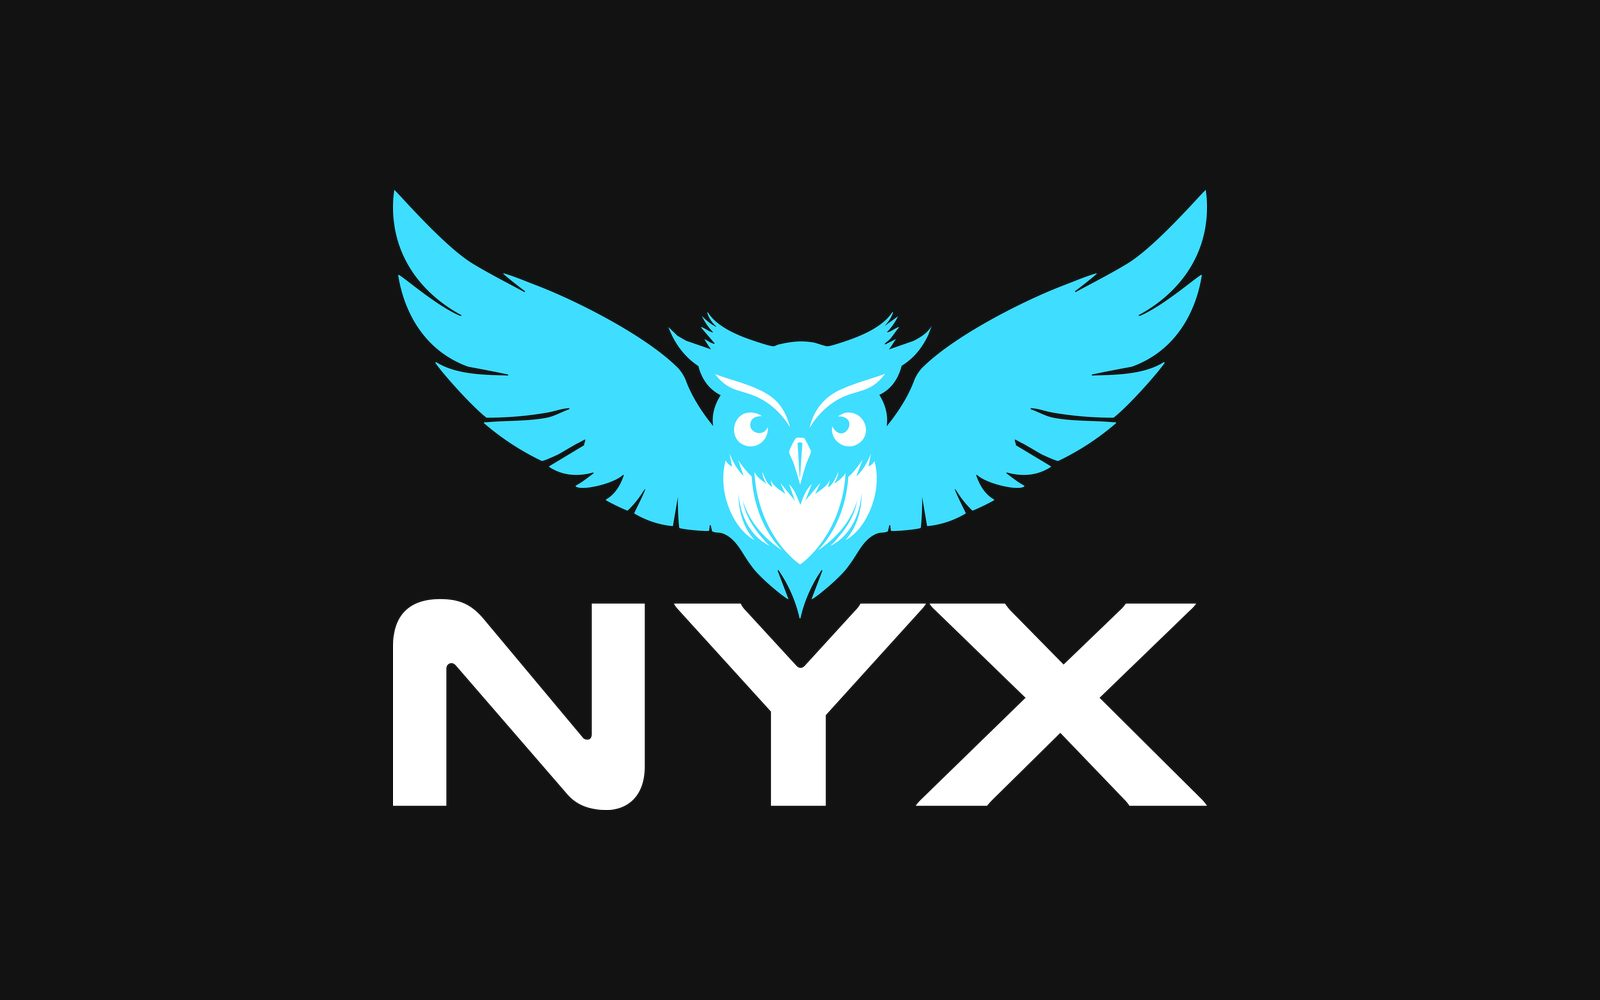
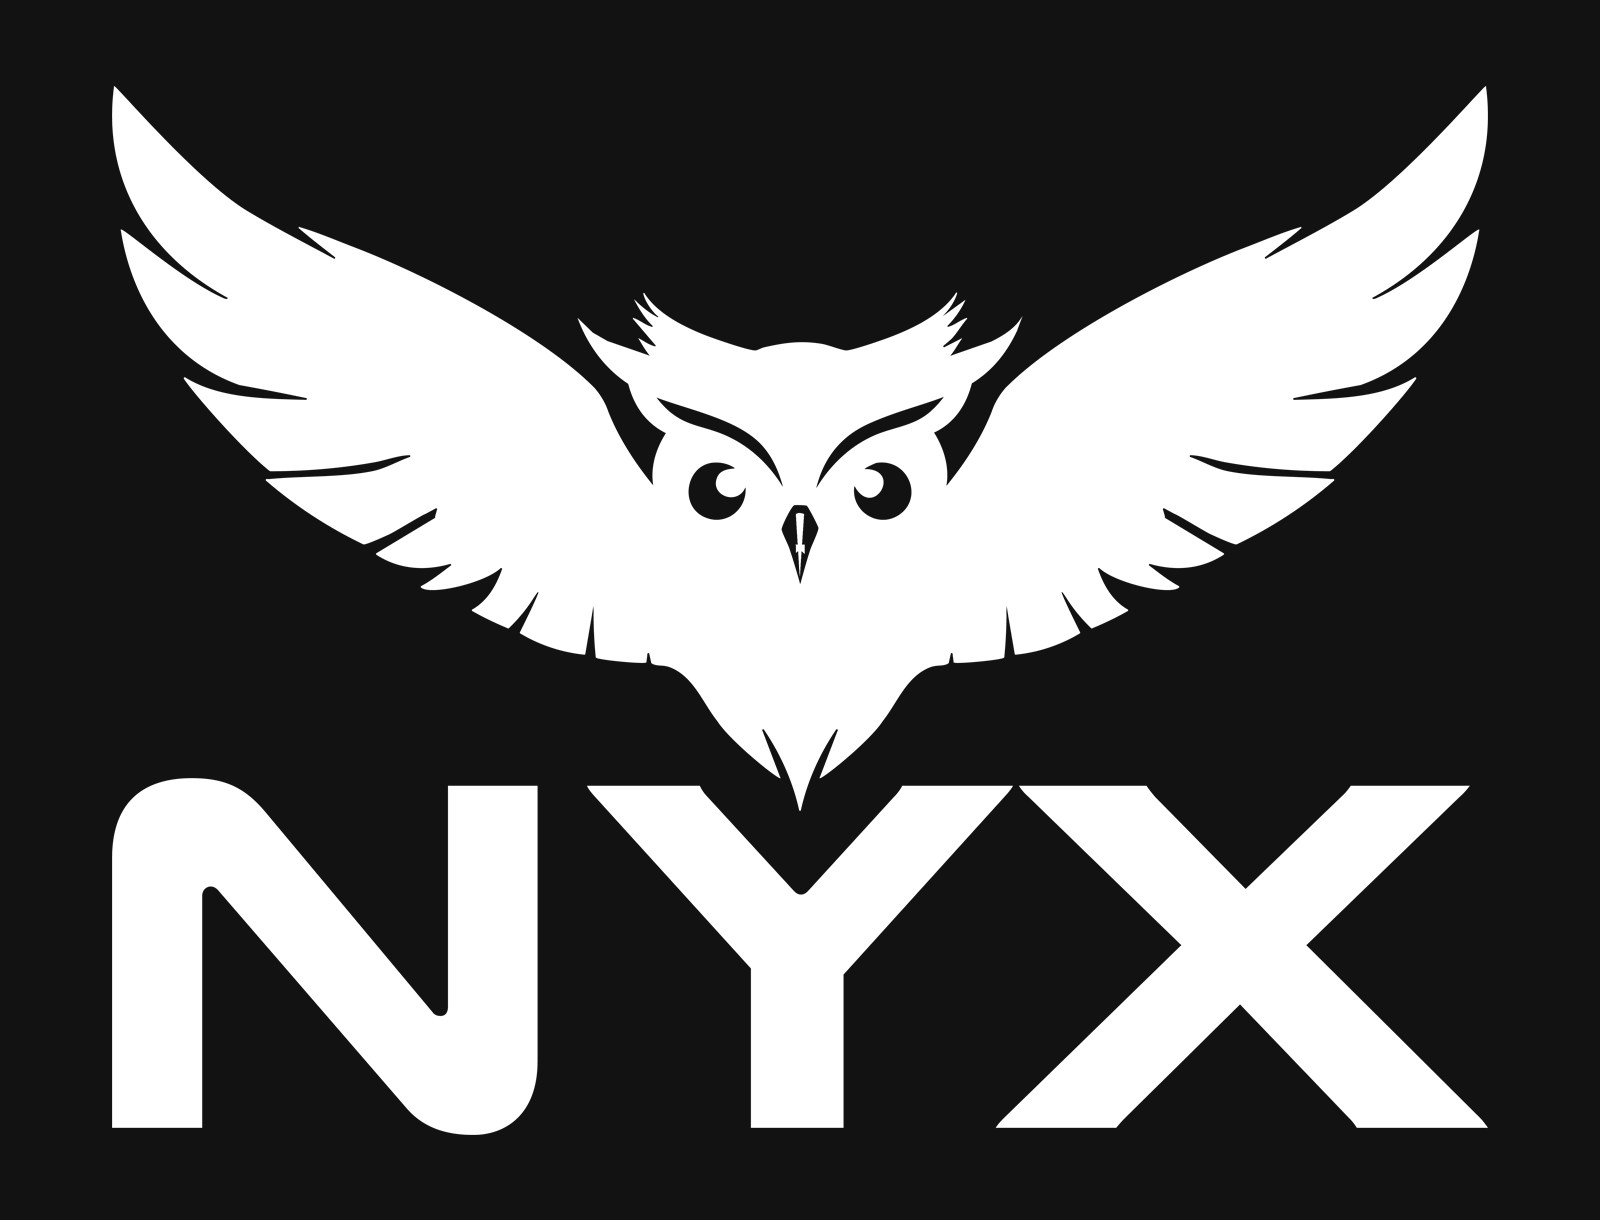
NYX identity: swap in the current lockups, each on the ground it needs

diff --git a/src/content/work.ts b/src/content/work.ts
@@ -99,23 +99,20 @@ export const work: Piece[] = [
     role: "Identity design",
     cover: {
       src: "/work/nyx-ai-identity/cover.jpg",
-      alt: "NYX.AI logo lockup: a black owl with a full wingspan above the NYX wordmark in cyan",
+      alt: "NYX lockup in cyan: an owl with a full wingspan above the NYX wordmark, set on a dark ground",
     },
     gallery: [
       {
         src: "/work/nyx-ai-identity/gallery-1.jpg",
-        alt: "NYX.AI lockup in cyan on a dark ground",
-        caption: "Light lockup, for dark applications.",
+        alt: "The NYX lockup reversed in solid white on a dark ground",
+        caption:
+          "Reversed to a single solid white — the version that has to survive one-colour printing and anything embroidered.",
       },
       {
         src: "/work/nyx-ai-identity/gallery-2.jpg",
-        alt: "NYX.AI owl mark alone in cyan",
-        caption: "The mark on its own — it has to work without the wordmark.",
-      },
-      {
-        src: "/work/nyx-ai-identity/gallery-3.jpg",
-        alt: "NYX.AI owl mark in white with cyan eyes and chest detail",
-        caption: "Two-colour cutout version for single-colour printing.",
+        alt: "The NYX lockup with a black owl carrying cyan eyes, brows and beak, above the NYX wordmark in cyan, on a light ground",
+        caption:
+          "The light-ground version. The owl goes black and the cyan pulls back to the eyes, the brows and the beak.",
       },
     ],
     tags: ["Logo design", "Brand foundations", "Illustrator"],
